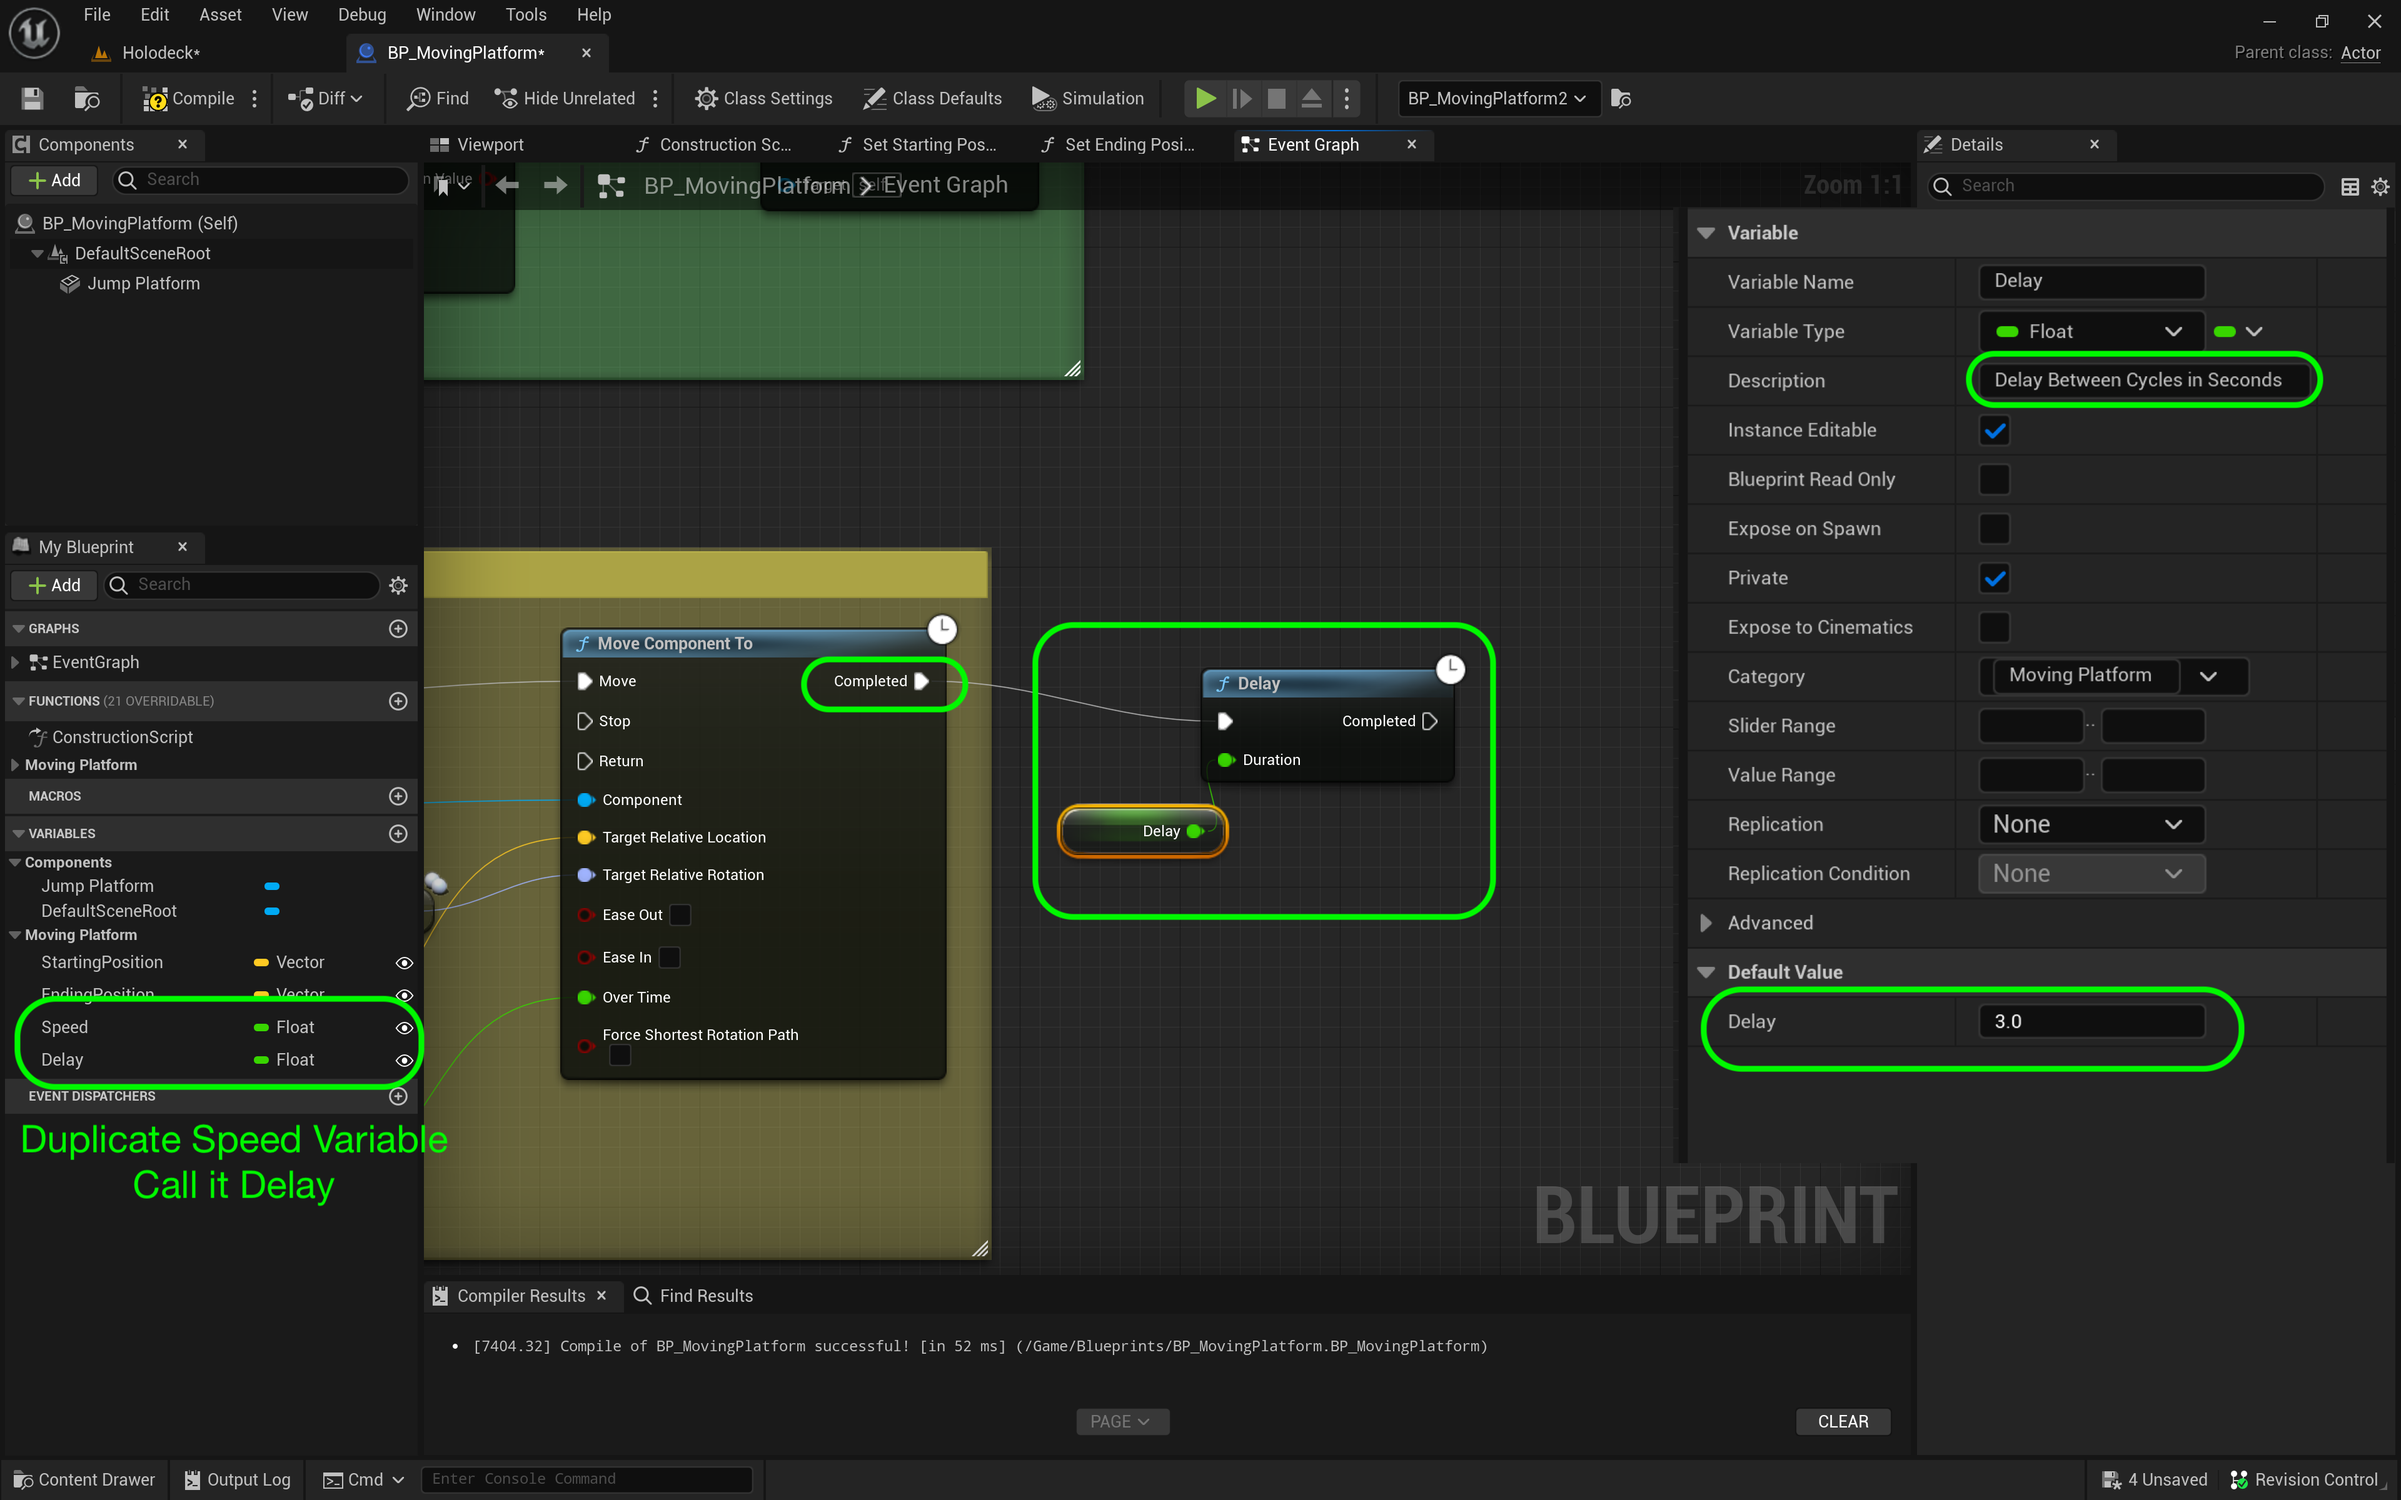
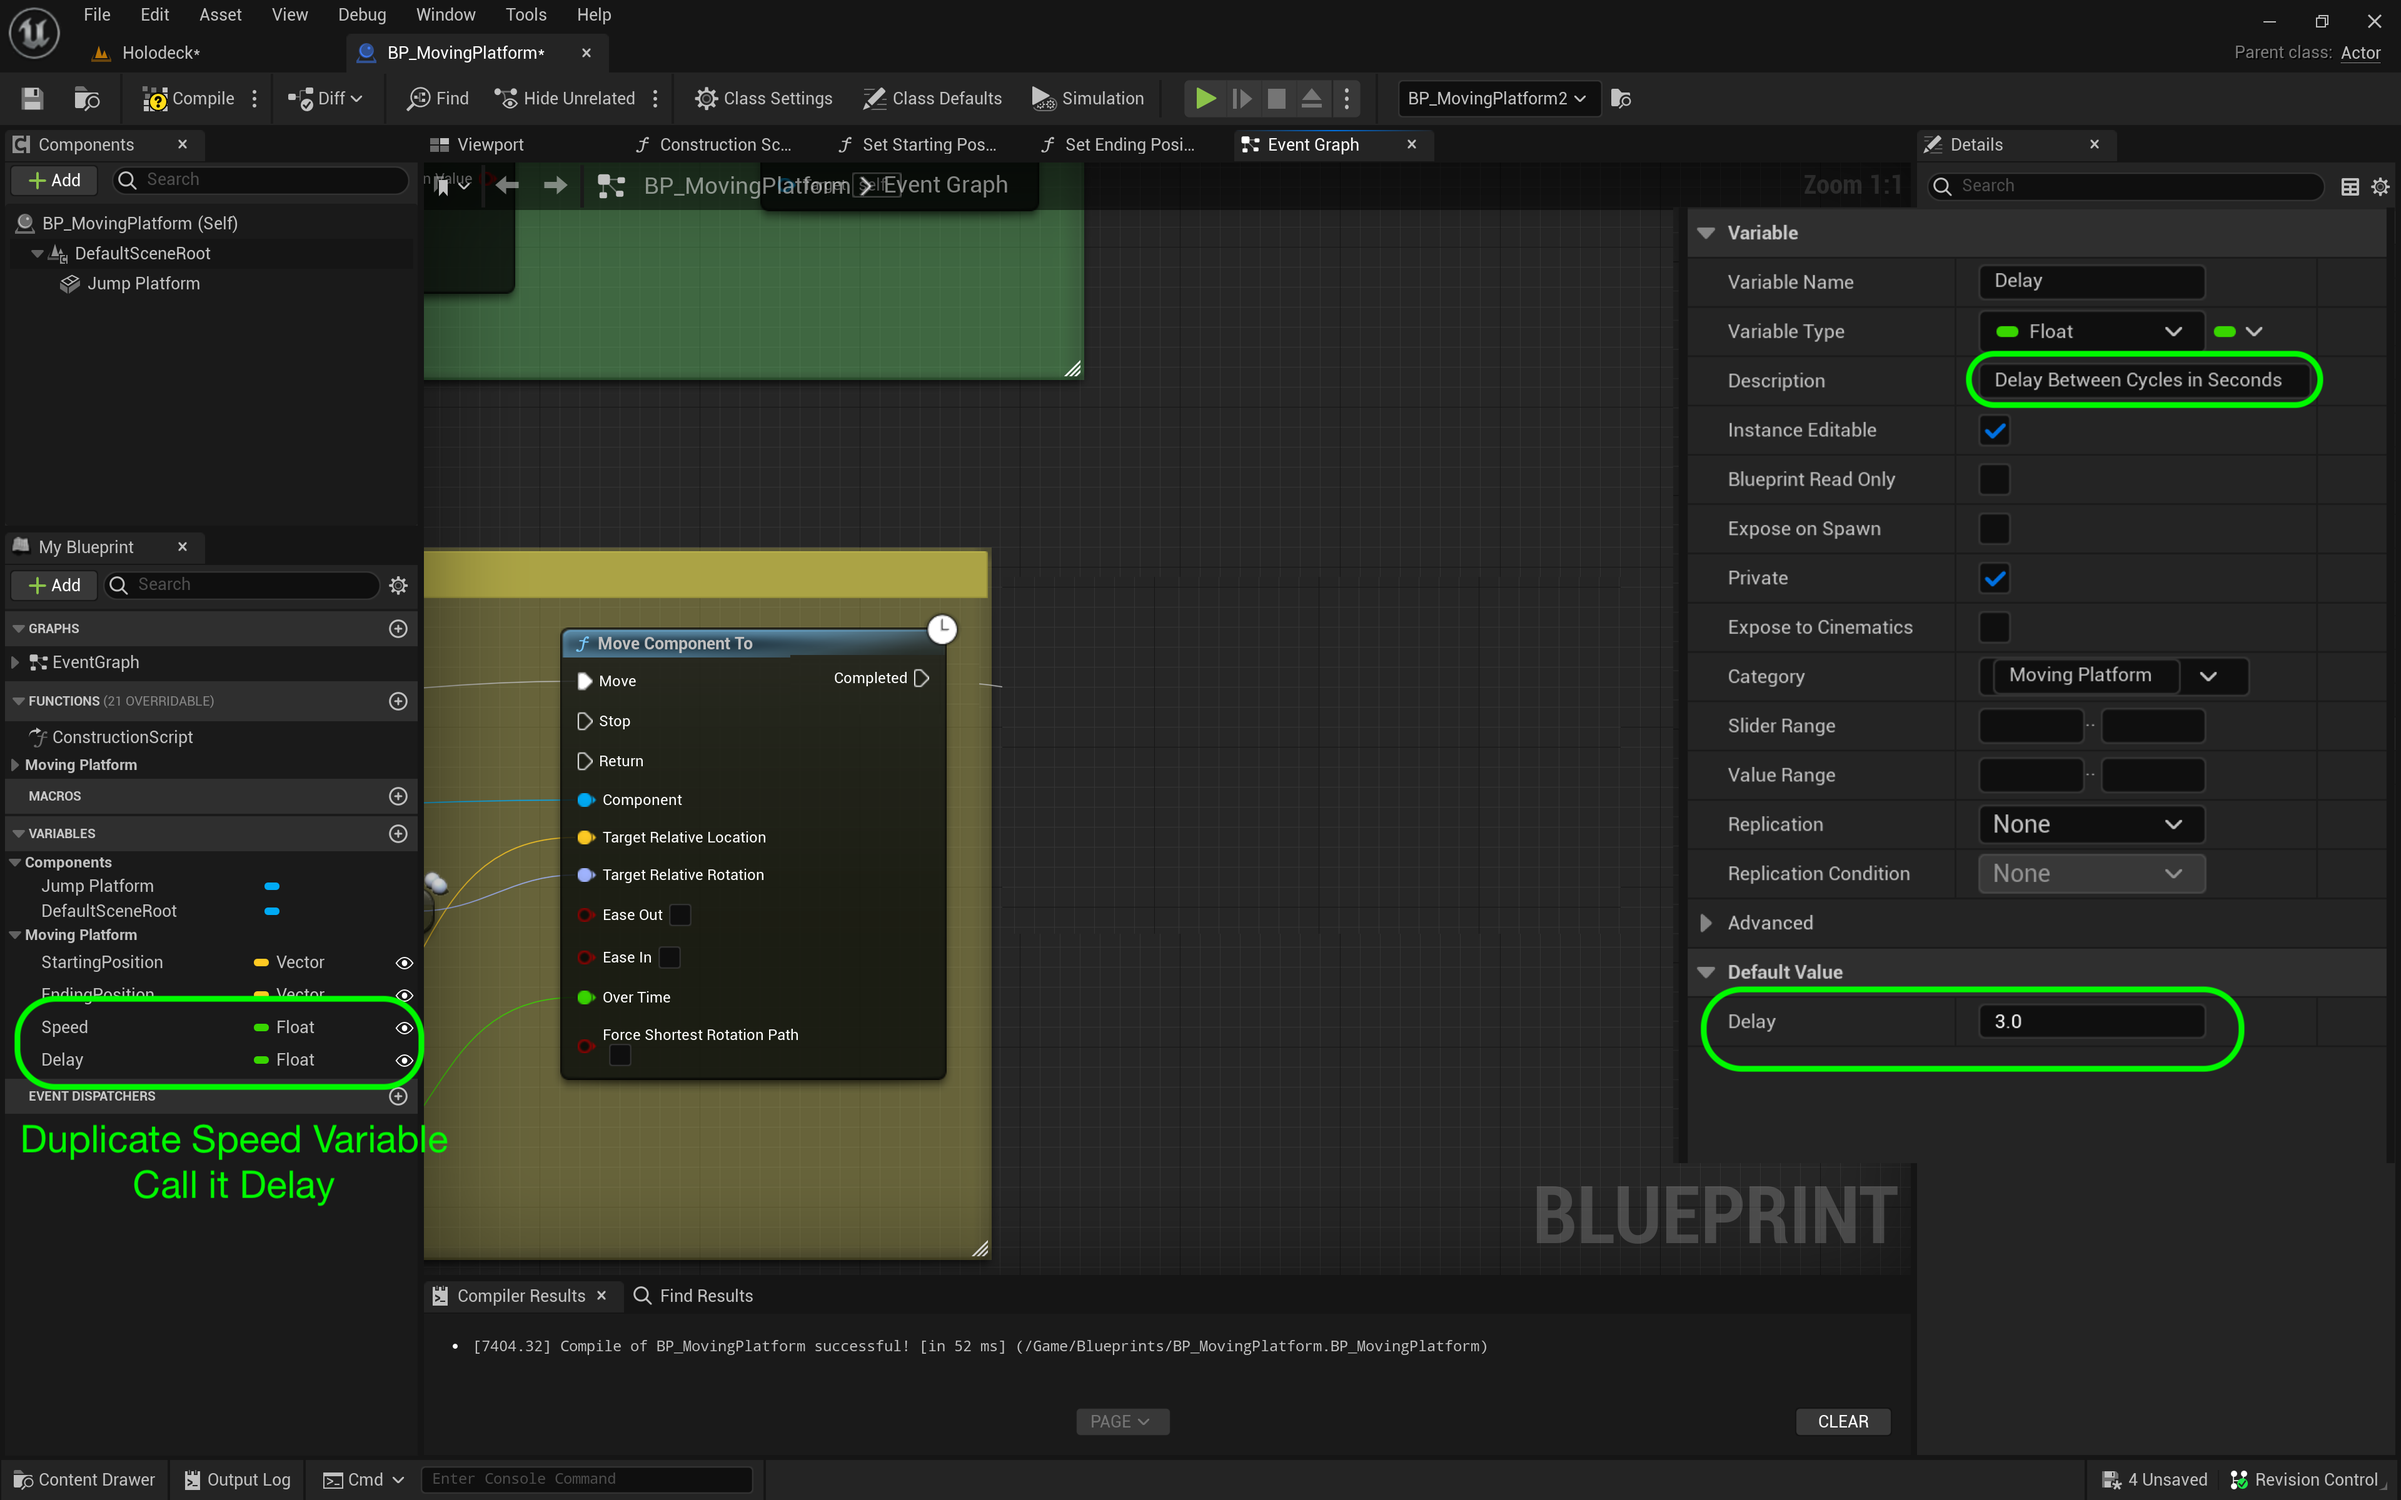
Update to Unreal 5.2

Changed region(s): [[0.4375, 0.4062, 0.625, 0.625], [0.3125, 0.4375, 0.4375, 0.5]]

diff --git a/moving-platform-ii/README.md b/moving-platform-ii/README.md
@@ -101,9 +101,9 @@ https://github.com/maubanel/UE5-Level-Design/assets/5504953/b1c1eb6c-6cc5-4d3c-a
 
 ##### `Step 11.`\|`UE5LD`| :large_blue_diamond: :small_blue_diamond: 
 
-Now one thing I don't like is that there is no time to jump on the platform it moves right away. Lets add a delay so there is a pause giving the player time to jump on or off the platform.
+Now one thing I don't like is that there is no time to jump on the platform it moves right away. Lets add a delay so there is a pause giving the player time to jump on or off the platform. *Right click* on the **Speed** variable and select **Duplicate**.  Call this new **Float** `Delay` and change the **Description** to `Delay Between Cycles in Seconds` and the **Default Value** to `3.0`. So it will wait three seconds to start.
 
-![add comment to begin play](images/setFirstDelay.png)
+![create Delay variable](images/setFirstDelay.png)
 
 ![](../images/line2.png)
 
@@ -111,7 +111,8 @@ Now one thing I don't like is that there is no time to jump on the platform it m
 ##### `Step 12.`\|`UE5LD`| :large_blue_diamond: :small_blue_diamond: :small_blue_diamond: 
 
 
-delayThenStart
+![add comment to begin play](images/delayThenStart.png)
+
 
 ![](../images/line2.png)
 
